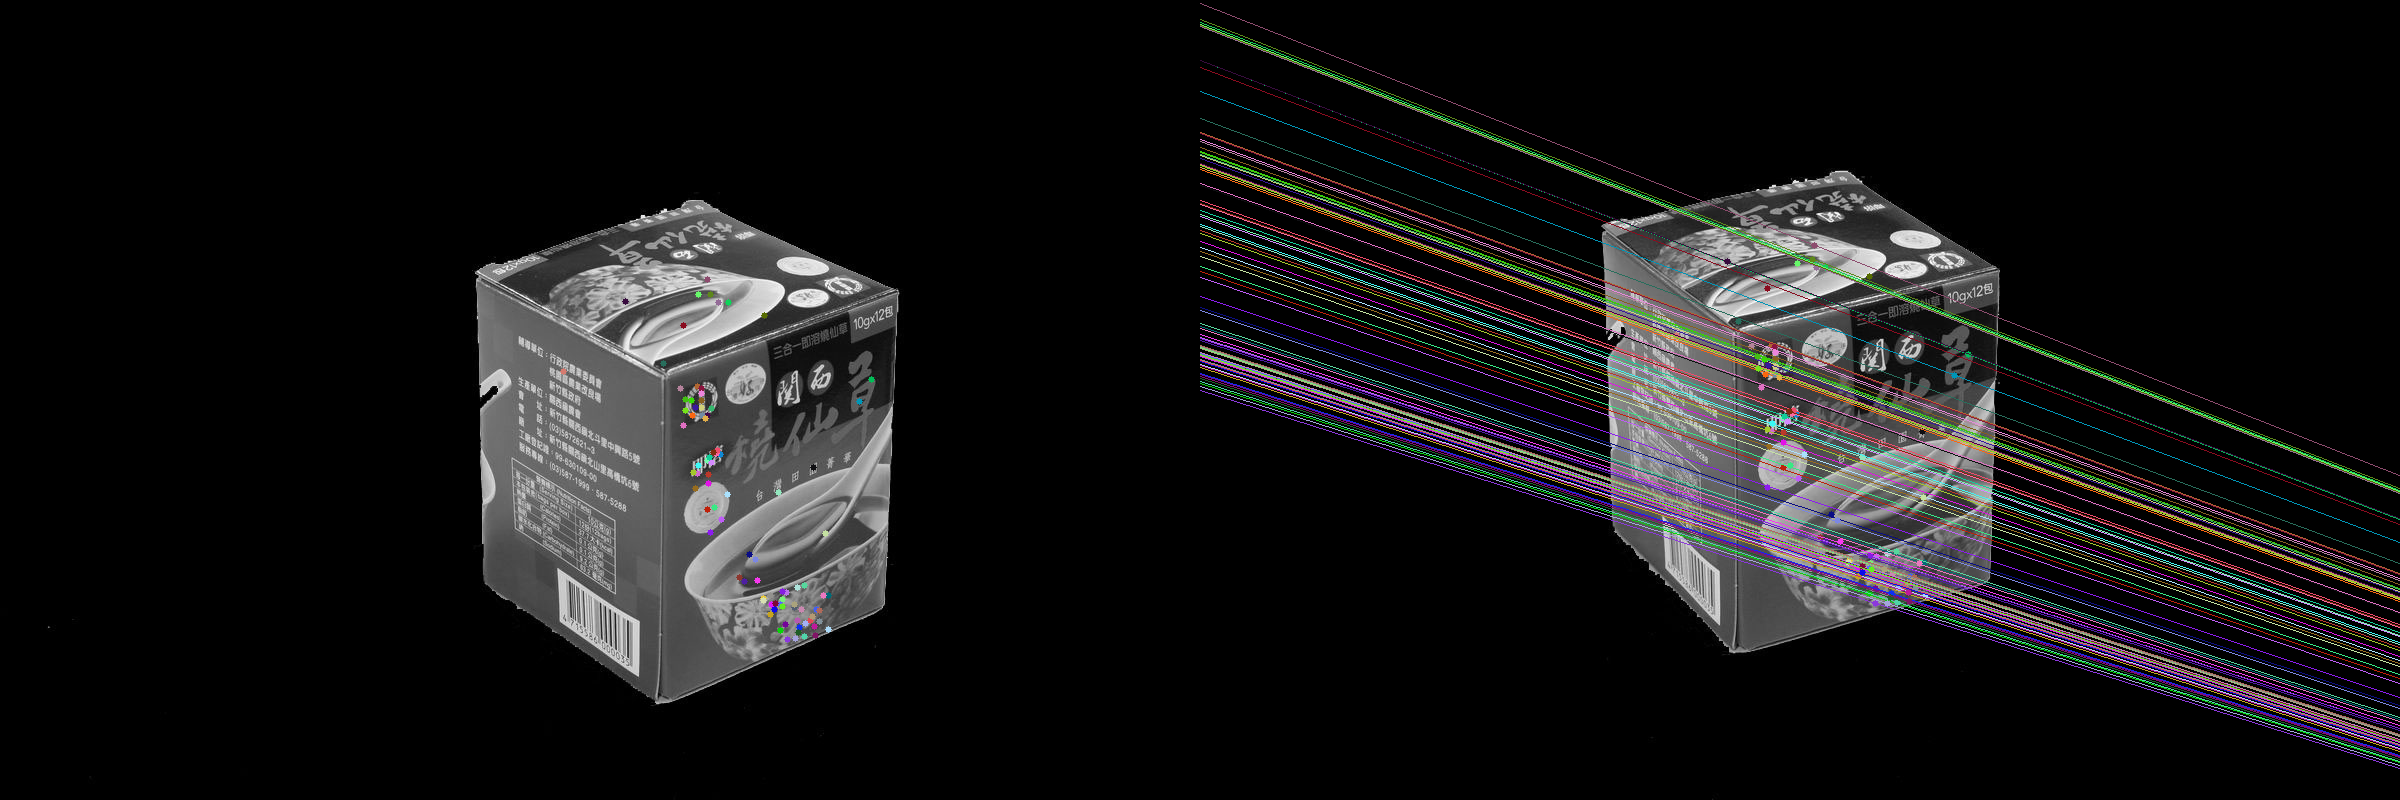
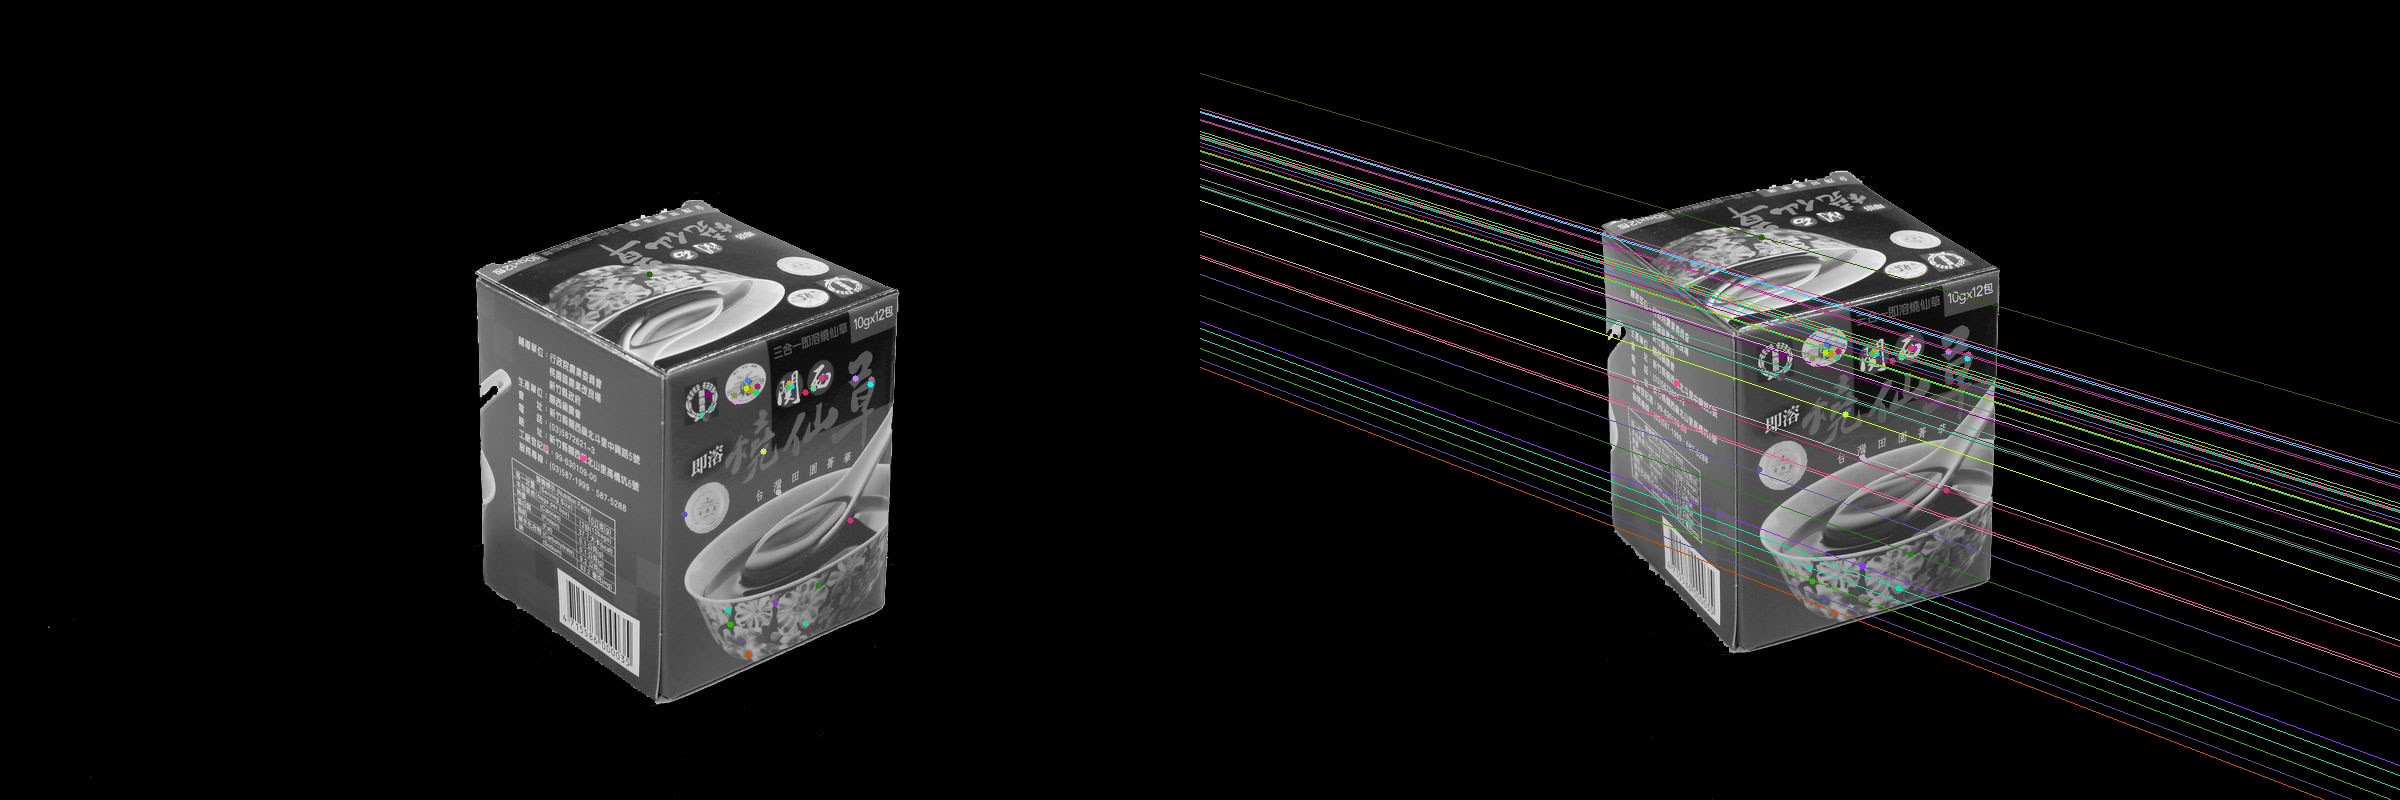
still use cv func
修改使Cal8points可以取超過八個點做

diff --git a/lab4/RANSAC.py b/lab4/RANSAC.py
@@ -22,6 +22,10 @@ class RANSAC():
     def Cal8points_err(self, x1, x2, F):
         '''compute error of x F xp 
         '''
+        
+        '''
+        目前還是暫時用cv function 可能要改
+        '''
         Fx1 = np.dot(F, x1)
         Fx2 = np.dot(F, x2)
         denom = Fx1[0]**2 + Fx1[1]**2 + Fx2[0]**2 + Fx2[1]**2
@@ -65,21 +69,24 @@ class RANSAC():
             # spilt 8 points and other for test
             all_idxs = np.arange(npts)
             np.random.shuffle(all_idxs)
-            try_idxs = all_idxs[:8]
-            test_idxs = all_idxs[8:]
+            try_idxs = all_idxs[:self.points]
+            test_idxs = all_idxs[self.points:]
             try_x1 = x1[:, try_idxs]
             try_x2 = x2[:, try_idxs]
             test_x1 = x1[:, test_idxs]
             test_x2 = x2[:, test_idxs]
             
             #calculate possible F
+            '''
+            目前還是暫時用cv function 可能要改
+            '''
             #maybe_F = self.Eight_points(try_x1, try_x2, T1, T2)
             maybe_F, _ = cv2.findFundamentalMat(try_x1.T, try_x2.T, cv2.FM_LMEDS)
             # get error of every pair for maybe_F
             test_err = self.Cal8points_err(test_x1, test_x2, maybe_F)
-            #print(test_err.mean())
+            print(test_err.mean())
             now_inlier = list(try_idxs)
-            for iter_err in range(len(test_err)):
+            for iter_err in range(len(test_err)): 
                 if test_err[iter_err] < self.thresh:
                     now_inlier.append(test_idxs[iter_err])
             
@@ -124,7 +131,7 @@ class RANSAC():
                 AnsH = H
 
         return AnsH, MaxLines
-        
+    '''    
     def CalF(self, RanPoints):
         print(Ranpoints.shape)
         
@@ -168,7 +175,7 @@ class RANSAC():
         pre_H = np.reshape(Vt[8], (3, 3))
         H = (1 / pre_H.item(8)) * pre_H
         return H
-
+    '''
 
 
 

diff --git a/lab4/SfM.py b/lab4/SfM.py
@@ -25,6 +25,7 @@ def normalize(points, imgsize):
     new_pt = T.dot(np.array(points))
     return new_pt, T
 
+
 InputFile1="./Mesona1.JPG"
 InputFile2="./Mesona2.JPG"
 
@@ -60,7 +61,10 @@ print("Lines: ", Lines[0])
 norm_x, T1 = normalize(h_x, img1.shape)
 norm_xp, T2 = normalize(h_xp, img2.shape)
 
-RSC8pt = RANSAC(thresh = 3, n_times = 1000, points = 8)
+'''
+目前還是暫時用cv function
+'''
+RSC8pt = RANSAC(thresh = 0.1, n_times = 1000, points = 10)
 F, idx = RSC8pt.ransac_8points(h_x, h_xp, T1, T2)
 #print("idx ", idx)
 
